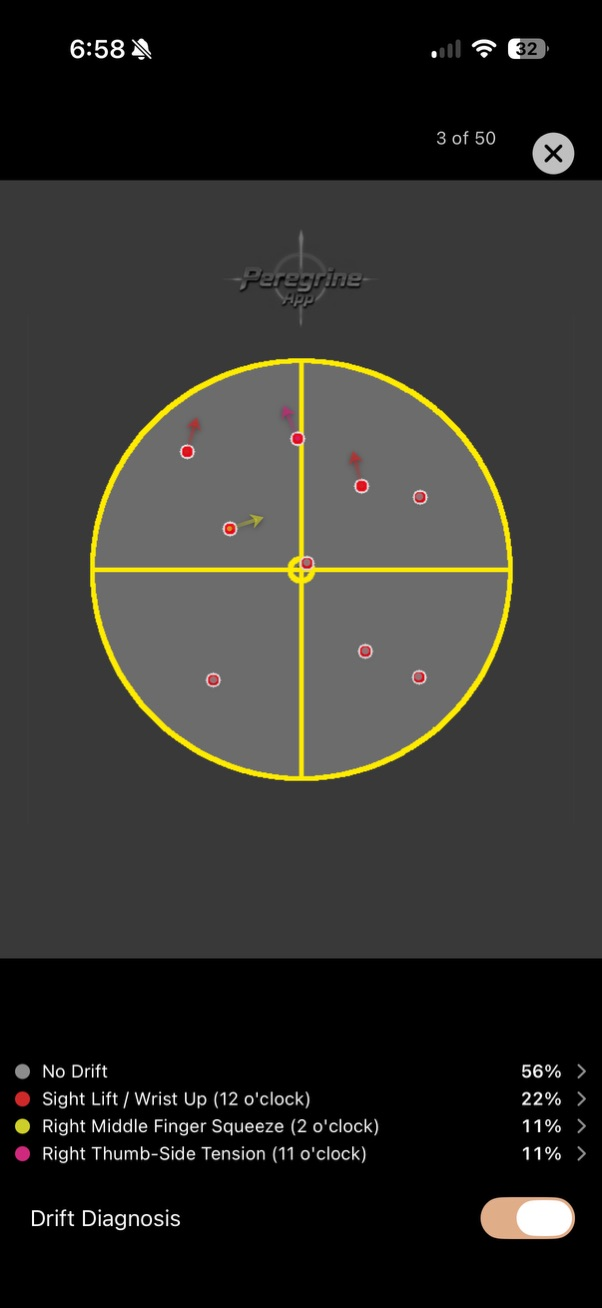
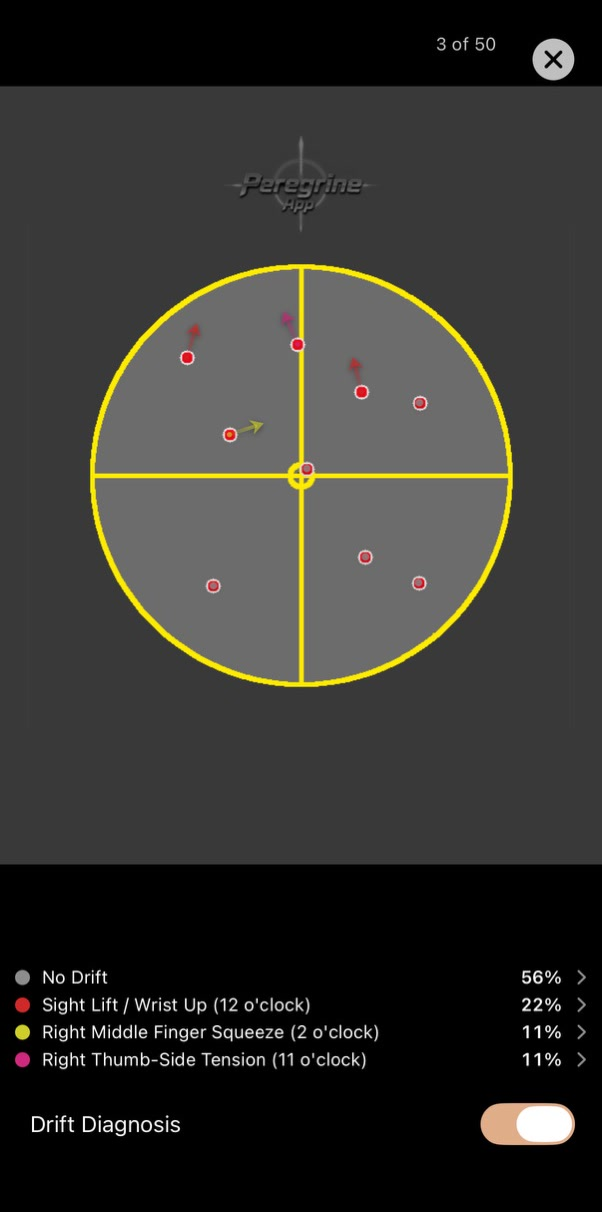
feat: interactions hover-highlight picker, box resize, movable signup, Audiowide, CTA splash art, drift wheel handedness + laser bolt
- Interactions Target is now a dropdown whose items highlight + scroll to the block on hover
- Seltools +/- resize the box (max-width lifted); text keeps its size, no transform scale
- .signup added to MOVE_SEL (both email forms draggable)
- Audiowide added to display fonts (Google Fonts)
- CTA lockup replaced with splash art (assets/web/cta-splash.jpg)
- Drift wheel: Right/Left-handed pill toggle (mirrored zones + hand-swapped copy),
  single laser bolt center->dot in .3s synced with the impact strobe/flash,
  inactive sectors lightened to 0.5
- Tyler's new drift-diagnosis-*.jpeg screenshots cropped (status bar removed)

diff --git a/editor.js b/editor.js
@@ -29,7 +29,8 @@
       "Rajdhani": "Rajdhani:wght@500;600;700",
       "Teko": "Teko:wght@500;600;700",
       "Orbitron": "Orbitron:wght@500;700;900",
-      "Chakra Petch": "Chakra+Petch:wght@500;600;700"
+      "Chakra Petch": "Chakra+Petch:wght@500;600;700",
+      "Audiowide": "Audiowide"
     },
     body: {
       "Archivo": "Archivo:wght@400;500;600",
@@ -86,7 +87,7 @@
   ];
 
   var EDIT_SEL = "h1,h2,h3,h4,p,li,figcaption,.feature__kicker,.video-cap,.cta__sub,.drift__readout-label,blockquote";
-  var MOVE_SEL = ".feature,.feature__copy,.feature__media,.section__head,.drift,.drift__copy,.drift__wheel,.drift__readout,.device,.kit-card,.step,.tcard,.carousel,.hero__copy,.hero__device,.cta__inner,.video-stage,.band__inner,.pe-motion-stage,blockquote,figure,h1,h2,h3,h4,p,li,img";
+  var MOVE_SEL = ".feature,.feature__copy,.feature__media,.section__head,.drift,.drift__copy,.drift__wheel,.drift__readout,.device,.kit-card,.step,.tcard,.carousel,.hero__copy,.hero__device,.cta__inner,.video-stage,.band__inner,.pe-motion-stage,.signup,blockquote,figure,h1,h2,h3,h4,p,li,img";
   var KEY_SEL = EDIT_SEL + ",img," + MOVE_SEL;
 
   var TARGET_IMAGE_PATHS = [
@@ -771,7 +772,8 @@
     if (L.dx || L.dy) t += "translate(" + (L.dx || 0) + "px," + (L.dy || 0) + "px) ";
     if (L.scale && L.scale !== 1) t += "scale(" + L.scale + ")";
     e.style.transform = t.trim();
-    if (L.width) e.style.width = Math.round(L.width) + "px";
+    // lift any CSS max-width cap so an explicit resize actually takes effect
+    if (L.width) { e.style.width = Math.round(L.width) + "px"; e.style.maxWidth = "none"; }
     if (L.height) e.style.height = Math.round(L.height) + "px";
     applyMediaStretch(e, L);
     if (L.align) e.style.textAlign = L.align;
@@ -1509,8 +1511,20 @@
     sizeField = el("span", "pe-size-field", "Size");
     selTools.appendChild(sizeField);
     sep();
-    b("−", "Smaller", function () { if (!selected) return; snapshot(); var L = curL(selected); L.scale = Math.max(0.4, (L.scale || 1) - 0.05); commitL(selected, L); });
-    b("+", "Larger", function () { if (!selected) return; snapshot(); var L = curL(selected); L.scale = Math.min(2, (L.scale || 1) + 0.05); commitL(selected, L); });
+    /* +/− resize the block's BOX; text and children keep their size and
+       reflow. (Any legacy transform-scale is folded into the width first so
+       the visual size doesn't jump, but the text un-zooms.) */
+    function resizeBox(factor) {
+      if (!selected) return; snapshot();
+      var L = curL(selected);
+      var visualW = selected.getBoundingClientRect().width;
+      if (L.scale && L.scale !== 1) { L.scale = 1; }
+      var w = L.width || visualW;
+      L.width = Math.max(48, Math.min(2400, Math.round(w * factor)));
+      commitL(selected, L);
+    }
+    b("−", "Smaller box (text size unchanged)", function () { resizeBox(0.92); });
+    b("+", "Larger box (text size unchanged)", function () { resizeBox(1.08); });
     b("Img", "Add custom-sized image to this block", insertImageIntoSelection);
     b("Scroll", "Add multiple scrolling images to this block", addScrollingImagesToSelection);
     b("Targets", "Add bundled target images as a scrolling carousel", addTargetCarouselToSelection);
@@ -1530,7 +1544,7 @@
     b("⟲", "Reset this block", function () {
       if (!selected) return; snapshot();
       selected.style.transform = ""; selected.style.textAlign = "";
-      selected.style.width = ""; selected.style.height = "";
+      selected.style.width = ""; selected.style.height = ""; selected.style.maxWidth = "";
       selected.classList.remove("pe-force-media-stretch");
       if (selected.closest(".pe-block")) { selected.__peL = {}; captureAdded(); }
       else { var k = selected.getAttribute("data-pe-key"); delete state.layout[k]; save(); }
@@ -2168,7 +2182,61 @@
       });
     }
     refreshInteractionTargets();
-    gIx.appendChild(field("Target", ixTarget));
+    /* Custom target picker: hovering an item outlines the block it maps to
+       on the page (and scrolls it into view), so you can see exactly what
+       the interaction will affect. The hidden native select stays as the
+       value store for the rest of the interactions code. */
+    ixTarget.style.display = "none";
+    function ixHighlight(elm) {
+      qsa(document, ".pe-ix-highlight").forEach(function (n) { n.classList.remove("pe-ix-highlight"); });
+      if (elm) {
+        elm.classList.add("pe-ix-highlight");
+        elm.scrollIntoView({ block: "center", behavior: "smooth" });
+      }
+    }
+    var ixPicker = el("div", "pe-ix-picker");
+    var ixPickBtn = el("button", "pe-ix-pickbtn"); ixPickBtn.type = "button";
+    var ixList = el("div", "pe-ix-droplist");
+    function syncPickBtn() {
+      var opt = ixTarget.options[ixTarget.selectedIndex];
+      ixPickBtn.textContent = opt ? opt.textContent : "Choose a target…";
+    }
+    function rebuildIxList() {
+      ixList.innerHTML = "";
+      qsa(ixTarget, "option").forEach(function (o) {
+        var it = el("button", "pe-ix-dropitem", o.textContent); it.type = "button";
+        it.onmouseenter = function () { ixHighlight(byKey(o.value)); };
+        it.onmouseleave = function () { ixHighlight(null); };
+        it.onclick = function () {
+          ixTarget.value = o.value;
+          ixTarget.dispatchEvent(new Event("change"));
+          syncPickBtn();
+          ixList.classList.remove("pe-show");
+          var chosen = byKey(o.value);
+          ixHighlight(chosen);
+          setTimeout(function () { ixHighlight(null); }, 1800);
+        };
+        ixList.appendChild(it);
+      });
+    }
+    ixPickBtn.onclick = function () {
+      refreshInteractionTargets();
+      syncPickBtn();
+      rebuildIxList();
+      var show = !ixList.classList.contains("pe-show");
+      ixList.classList.toggle("pe-show", show);
+      if (!show) ixHighlight(null);
+    };
+    document.addEventListener("click", function (e) {
+      if (!ixList.classList.contains("pe-show")) return;
+      if (e.target === ixPickBtn || ixPicker.contains(e.target)) return;
+      ixList.classList.remove("pe-show");
+      ixHighlight(null);
+    });
+    syncPickBtn();
+    ixPicker.appendChild(ixPickBtn); ixPicker.appendChild(ixList);
+    gIx.appendChild(field("Target", ixPicker));
+    gIx.appendChild(ixTarget); // hidden value store
     var ixGrid = el("div", "pe-mini-grid");
     var ixTrigger = el("select");
     INTERACTION_TRIGGERS.forEach(function (item) { var o = el("option"); o.value = item[0]; o.textContent = item[1]; ixTrigger.appendChild(o); });

diff --git a/script.js b/script.js
@@ -292,6 +292,26 @@
     { hour: 11, name: "Right Thumb-Side Tension", cause: "Tensing the thick muscle at the base of your right thumb.", fix: "Palms Vice: Clamp your palms together from both sides to cancel out lateral tension." }
   ];
   function driftZoneColor(i) { return "hsl(" + (i * 30) + " 72% 52%)"; }
+  /* Left-handed = horizontal mirror of the wheel (matches the app's
+     DriftAnalyzer): a fault at 1 o'clock moves to 11 o'clock, and the
+     dominant/support hand words swap. */
+  function swapHands(s) {
+    return s
+      .replace(/\bRight\b/g, "@@R@@").replace(/\bLeft\b/g, "Right").replace(/@@R@@/g, "Left")
+      .replace(/\bright\b/g, "@@r@@").replace(/\bleft\b/g, "right").replace(/@@r@@/g, "left");
+  }
+  function driftZonesFor(hand) {
+    if (hand !== "left") return DRIFT_ZONES;
+    return DRIFT_ZONES.map(function (_, j) {
+      var src = DRIFT_ZONES[(12 - j) % 12];
+      return {
+        hour: j === 0 ? 12 : j,
+        name: swapHands(src.name),
+        cause: swapHands(src.cause),
+        fix: swapHands(src.fix)
+      };
+    });
+  }
 
   window.__peInitDriftWheel = function () {
     var host = document.getElementById("driftWheel");
@@ -369,7 +389,46 @@
     });
     svg.appendChild(flash);
     svg.appendChild(dot);
+
+    /* handedness toggle: the left-handed wheel is the horizontal mirror */
+    var hand = "right";
+    var currentZones = DRIFT_ZONES;
+    var handWrap = document.createElement("div");
+    handWrap.className = "dw-hand";
+    handWrap.setAttribute("role", "group");
+    handWrap.setAttribute("aria-label", "Shooter handedness");
+    var handBtns = {};
+    [["right", "Right-handed"], ["left", "Left-handed"]].forEach(function (opt) {
+      var hb = document.createElement("button");
+      hb.type = "button";
+      hb.textContent = opt[1];
+      hb.className = opt[0] === hand ? "is-on" : "";
+      hb.setAttribute("aria-pressed", opt[0] === hand ? "true" : "false");
+      hb.addEventListener("click", function () { setHand(opt[0]); });
+      handBtns[opt[0]] = hb;
+      handWrap.appendChild(hb);
+    });
+    host.insertBefore(handWrap, readout);
     host.insertBefore(svg, readout);
+
+    function syncSectorLabels() {
+      sectors.forEach(function (s, i) {
+        var z = currentZones[i];
+        s.setAttribute("aria-label", z.name + " (" + z.hour + " o'clock)");
+      });
+    }
+    function setHand(h) {
+      if (h === hand) return;
+      hand = h;
+      currentZones = driftZonesFor(h);
+      Object.keys(handBtns).forEach(function (k) {
+        handBtns[k].classList.toggle("is-on", k === h);
+        handBtns[k].setAttribute("aria-pressed", k === h ? "true" : "false");
+      });
+      syncSectorLabels();
+      stopIdle();
+      if (activeIndex != null) show((12 - activeIndex) % 12, true); // mirrored fault, laser re-fires
+    }
 
     var idleTimer = null, interacted = false;
     var reduceMotion = window.matchMedia("(prefers-reduced-motion: reduce)").matches;
@@ -388,7 +447,7 @@
       var shouldPulse = fireEffect && i !== activeIndex && !reduceMotion;
       activeIndex = i;
       sectors.forEach(function (s, j) { s.classList.toggle("is-active", j === i); });
-      var z = DRIFT_ZONES[i];
+      var z = currentZones[i];
       var start = pt(i * 30, 34);
       var end = pt(i * 30, 118);
       moveLaserMark(end);

diff --git a/styles.css b/styles.css
@@ -1128,9 +1128,9 @@ a { color: inherit; text-decoration: none; }
 .drift__wheel svg { width: 100%; max-width: 400px; height: auto; display: block; }
 .dw-ring { fill: none; stroke: rgba(255, 255, 255, 0.13); stroke-width: 1.2; stroke-dasharray: 2 2.3; }
 .dw-sector { cursor: pointer; outline: none; }
-.dw-sector path { opacity: 0.22; transition: opacity .35s ease, filter .35s ease; }
+.dw-sector path { opacity: 0.5; transition: opacity .35s ease, filter .35s ease; }
 .dw-sector.is-active path, .dw-sector:hover path, .dw-sector:focus-visible path {
-  opacity: 0.95; filter: drop-shadow(0 0 10px rgba(255, 255, 255, 0.25));
+  opacity: 1; filter: drop-shadow(0 0 12px rgba(255, 255, 255, 0.3));
 }
 .dw-hour { fill: var(--mute); font-family: var(--f-tech); font-size: 13px;
   text-anchor: middle; dominant-baseline: middle; pointer-events: none; }
@@ -1143,7 +1143,7 @@ a { color: inherit; text-decoration: none; }
   transform-box: fill-box;
   transform-origin: center;
 }
-.dw-dot.is-hit { animation: dwDotStrobe .28s steps(2, end) .56s both; }
+.dw-dot.is-hit { animation: dwDotStrobe .28s steps(2, end) .3s both; }
 .dw-flash {
   fill: none;
   stroke: rgba(255, 245, 225, 0.95);
@@ -1154,7 +1154,7 @@ a { color: inherit; text-decoration: none; }
   transform-origin: center;
   pointer-events: none;
 }
-.dw-flash.is-flashing { animation: dwImpactFlash .46s ease-out .56s both; }
+.dw-flash.is-flashing { animation: dwImpactFlash .46s ease-out .3s both; }
 .dw-tracer,
 .dw-tracer-pulse {
   stroke: var(--laser);
@@ -1171,18 +1171,20 @@ a { color: inherit; text-decoration: none; }
 .dw-tracer.is-live { opacity: 0.78; }
 .dw-tracer-pulse {
   stroke: #fff1dc;
-  stroke-width: 2.9;
+  stroke-width: 3.1;
   opacity: 0;
-  stroke-dasharray: 2 5 2 5 9 110;
-  stroke-dashoffset: 100;
-  filter: drop-shadow(0 0 6px rgba(255, 245, 225, 0.85)) drop-shadow(0 0 13px rgba(255, 38, 0, 0.82));
+  /* one bright bolt (~18% of the line) with a trailing gap — it launches
+     from the center ring and races out to the dot */
+  stroke-dasharray: 18 100;
+  stroke-dashoffset: 18;
+  filter: drop-shadow(0 0 6px rgba(255, 245, 225, 0.9)) drop-shadow(0 0 14px rgba(255, 38, 0, 0.85));
 }
-.dw-tracer-pulse.is-live { animation: dwTracerPulse .72s cubic-bezier(.22,.7,.12,1) both; }
+.dw-tracer-pulse.is-live { animation: dwTracerPulse .3s cubic-bezier(.4, 0, .9, .6) both; }
 @keyframes dwTracerPulse {
-  0% { opacity: 0; stroke-dashoffset: 100; }
-  14% { opacity: 1; }
-  78% { opacity: 1; }
-  100% { opacity: 0; stroke-dashoffset: 0; }
+  0% { opacity: 0; stroke-dashoffset: 18; }
+  10% { opacity: 1; }
+  88% { opacity: 1; }
+  100% { opacity: 0; stroke-dashoffset: -100; }
 }
 @keyframes dwDotStrobe {
   0%, 100% { fill: var(--laser); stroke: var(--laser); }
@@ -1193,6 +1195,18 @@ a { color: inherit; text-decoration: none; }
   28% { opacity: 1; }
   100% { opacity: 0; transform: scale(2.45); stroke-width: .45; }
 }
+.dw-hand {
+  display: inline-flex; gap: 0; margin: 0 0 16px;
+  background: rgba(255, 255, 255, 0.05);
+  border: 1px solid var(--line); border-radius: 999px; padding: 3px;
+}
+.dw-hand button {
+  border: 0; background: transparent; color: var(--mute); cursor: pointer;
+  font-family: var(--f-tech); font-size: 12px; letter-spacing: 0.12em;
+  text-transform: uppercase; padding: 7px 16px; border-radius: 999px;
+  transition: background .25s ease, color .25s ease;
+}
+.dw-hand button.is-on { background: var(--laser); color: #fff; }
 .dw-cause { margin: 0 0 8px; color: #c4bfb5; font-size: 14.5px; line-height: 1.55; }
 .dw-fix { margin: 0; color: var(--gold); font-family: var(--f-tech); font-size: 13px; line-height: 1.55; }
 .drift__readout .swatch { width: 10px; height: 10px; border-radius: 50%; display: inline-block; }

diff --git a/editor.css b/editor.css
@@ -355,3 +355,35 @@ body.pe-layout .pe-selected { outline: 2px solid #8abce0 !important; outline-off
 .pe-insert-actions .pe-btn { width: auto; padding: 8px 16px; }
 .pe-insert-actions .pe-confirm { background: #ff3a23; border-color: #ff3a23; color: #fff; }
 .pe-insert-actions .pe-confirm[disabled] { opacity: 0.4; cursor: default; }
+
+/* ---------- interactions target picker (hover-highlight) ---------- */
+.pe-ix-picker { position: relative; }
+.pe-ix-pickbtn {
+  width: 100%; text-align: left; cursor: pointer;
+  background: #0d0d11; color: #e8e4da;
+  border: 1px solid #2a2a33; border-radius: 8px; padding: 8px 10px;
+  font: inherit; font-size: 13px;
+}
+.pe-ix-pickbtn::after { content: " ▾"; color: #8abce0; }
+.pe-ix-droplist {
+  display: none; position: absolute; left: 0; right: 0; top: calc(100% + 4px);
+  z-index: 20; max-height: 240px; overflow: auto;
+  background: #131318; border: 1px solid #2a2a33; border-radius: 10px;
+  box-shadow: 0 18px 50px rgba(0, 0, 0, 0.6);
+}
+.pe-ix-droplist.pe-show { display: block; }
+.pe-ix-dropitem {
+  display: block; width: 100%; text-align: left; cursor: pointer;
+  background: transparent; color: #cfcabf; border: 0;
+  padding: 8px 12px; font: inherit; font-size: 12.5px;
+}
+.pe-ix-dropitem:hover { background: rgba(138, 188, 224, 0.16); color: #fff; }
+
+/* page-side highlight for the hovered target */
+.pe-ix-highlight {
+  outline: 2px solid #8abce0 !important;
+  outline-offset: 4px;
+  box-shadow: 0 0 0 6px rgba(138, 188, 224, 0.22), 0 0 34px rgba(138, 188, 224, 0.4) !important;
+  border-radius: 8px;
+  transition: box-shadow .2s ease;
+}

diff --git a/index.html b/index.html
@@ -343,8 +343,8 @@
             <div class="carousel carousel--drift" data-carousel="">
               <div class="carousel__viewport">
                 <div class="carousel__track">
-                  <div class="carousel__slide"><div class="device"><span class="device__island" aria-hidden="true"></span><div class="device__status" aria-hidden="true"><span class="device__time">9:41</span><span class="device__indicators"><span class="device__cell"><span></span><span></span><span></span><span></span></span><span class="device__wifi"></span><span class="device__battery"><span></span></span></span></div><div class="device__screen"><img src="assets/drift-diagnosis-silhouette.jpeg" width="602" height="1308" loading="lazy" alt="Peregrine Drift Diagnosis review showing shot drift causes on a silhouette target"></div></div></div>
-                  <div class="carousel__slide"><div class="device"><span class="device__island" aria-hidden="true"></span><div class="device__status" aria-hidden="true"><span class="device__time">9:41</span><span class="device__indicators"><span class="device__cell"><span></span><span></span><span></span><span></span></span><span class="device__wifi"></span><span class="device__battery"><span></span></span></span></div><div class="device__screen"><img src="assets/drift-diagnosis-circle.jpeg" width="602" height="1308" loading="lazy" alt="Peregrine Drift Diagnosis review showing drift causes on a circular target"></div></div></div>
+                  <div class="carousel__slide"><div class="device"><span class="device__island" aria-hidden="true"></span><div class="device__status" aria-hidden="true"><span class="device__time">9:41</span><span class="device__indicators"><span class="device__cell"><span></span><span></span><span></span><span></span></span><span class="device__wifi"></span><span class="device__battery"><span></span></span></span></div><div class="device__screen"><img src="assets/drift-diagnosis-silhouette.jpeg" width="602" height="1212" loading="lazy" alt="Peregrine Drift Diagnosis review showing shot drift causes on a silhouette target"></div></div></div>
+                  <div class="carousel__slide"><div class="device"><span class="device__island" aria-hidden="true"></span><div class="device__status" aria-hidden="true"><span class="device__time">9:41</span><span class="device__indicators"><span class="device__cell"><span></span><span></span><span></span><span></span></span><span class="device__wifi"></span><span class="device__battery"><span></span></span></span></div><div class="device__screen"><img src="assets/drift-diagnosis-circle.jpeg" width="602" height="1212" loading="lazy" alt="Peregrine Drift Diagnosis review showing drift causes on a circular target"></div></div></div>
                 </div>
               </div>
               <button class="carousel__arrow carousel__arrow--prev" type="button" aria-label="Previous">‹</button>
@@ -454,7 +454,7 @@
       <video class="cta__video" muted loop playsinline autoplay preload="metadata" src="assets/hero/Kling/1783016018744_7mcs1ej3znn.mp4" aria-hidden="true"></video>
       <div class="cta__scrim" aria-hidden="true"></div>
       <div class="cta__inner reveal in">
-        <img class="cta__lockup" src="assets/web/wordmark-lockup.jpg" width="900" height="377" alt="Peregrine">
+        <img class="cta__lockup" src="assets/web/cta-splash.jpg" width="901" height="552" alt="Peregrine">
         <h2 class="cta__title">Be first on the line.</h2>
         <p class="cta__sub">Peregrine is coming to iPhone. Leave your email and we'll let you know the moment it's ready.</p>
 